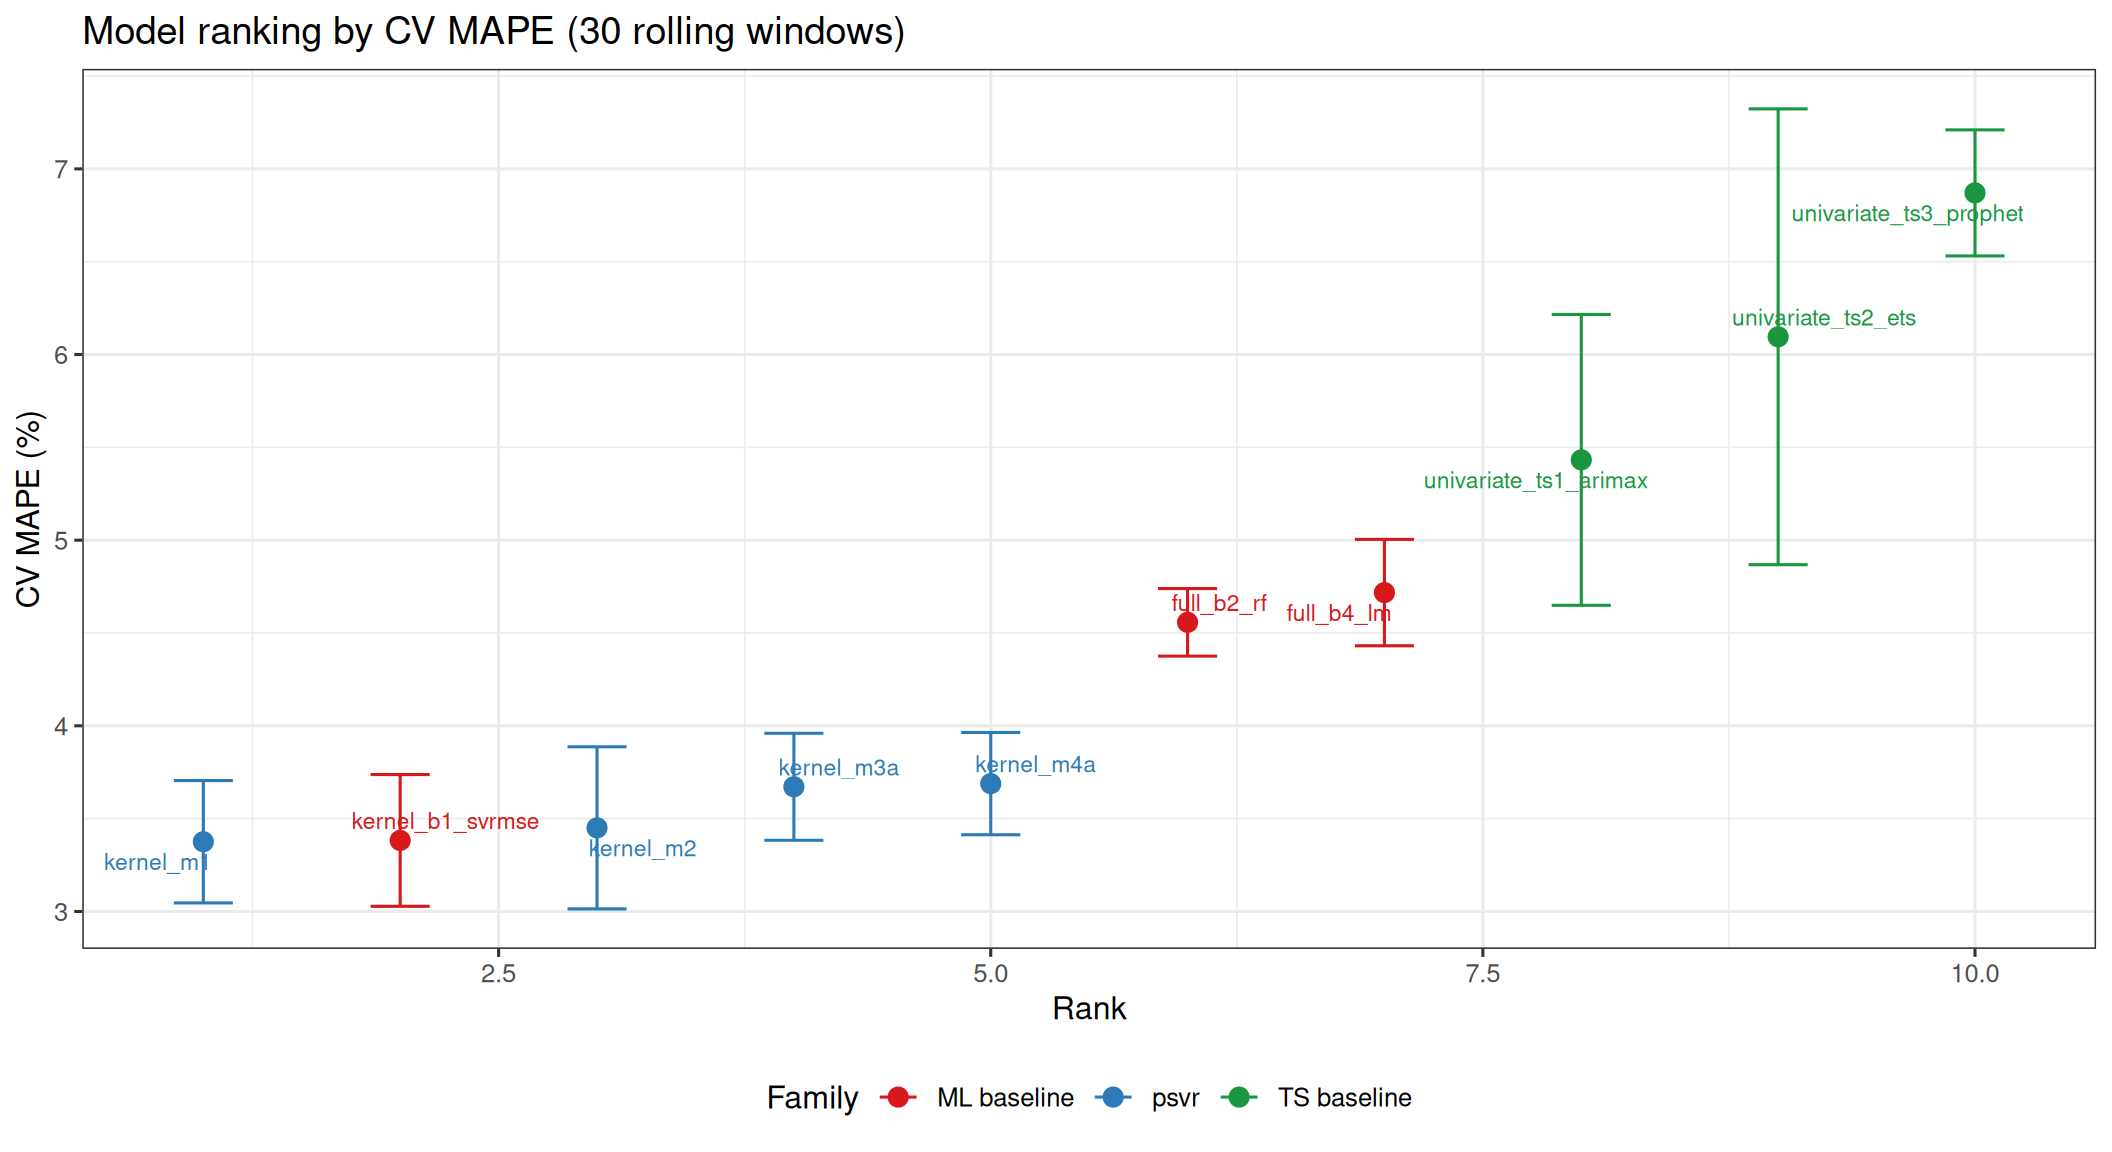
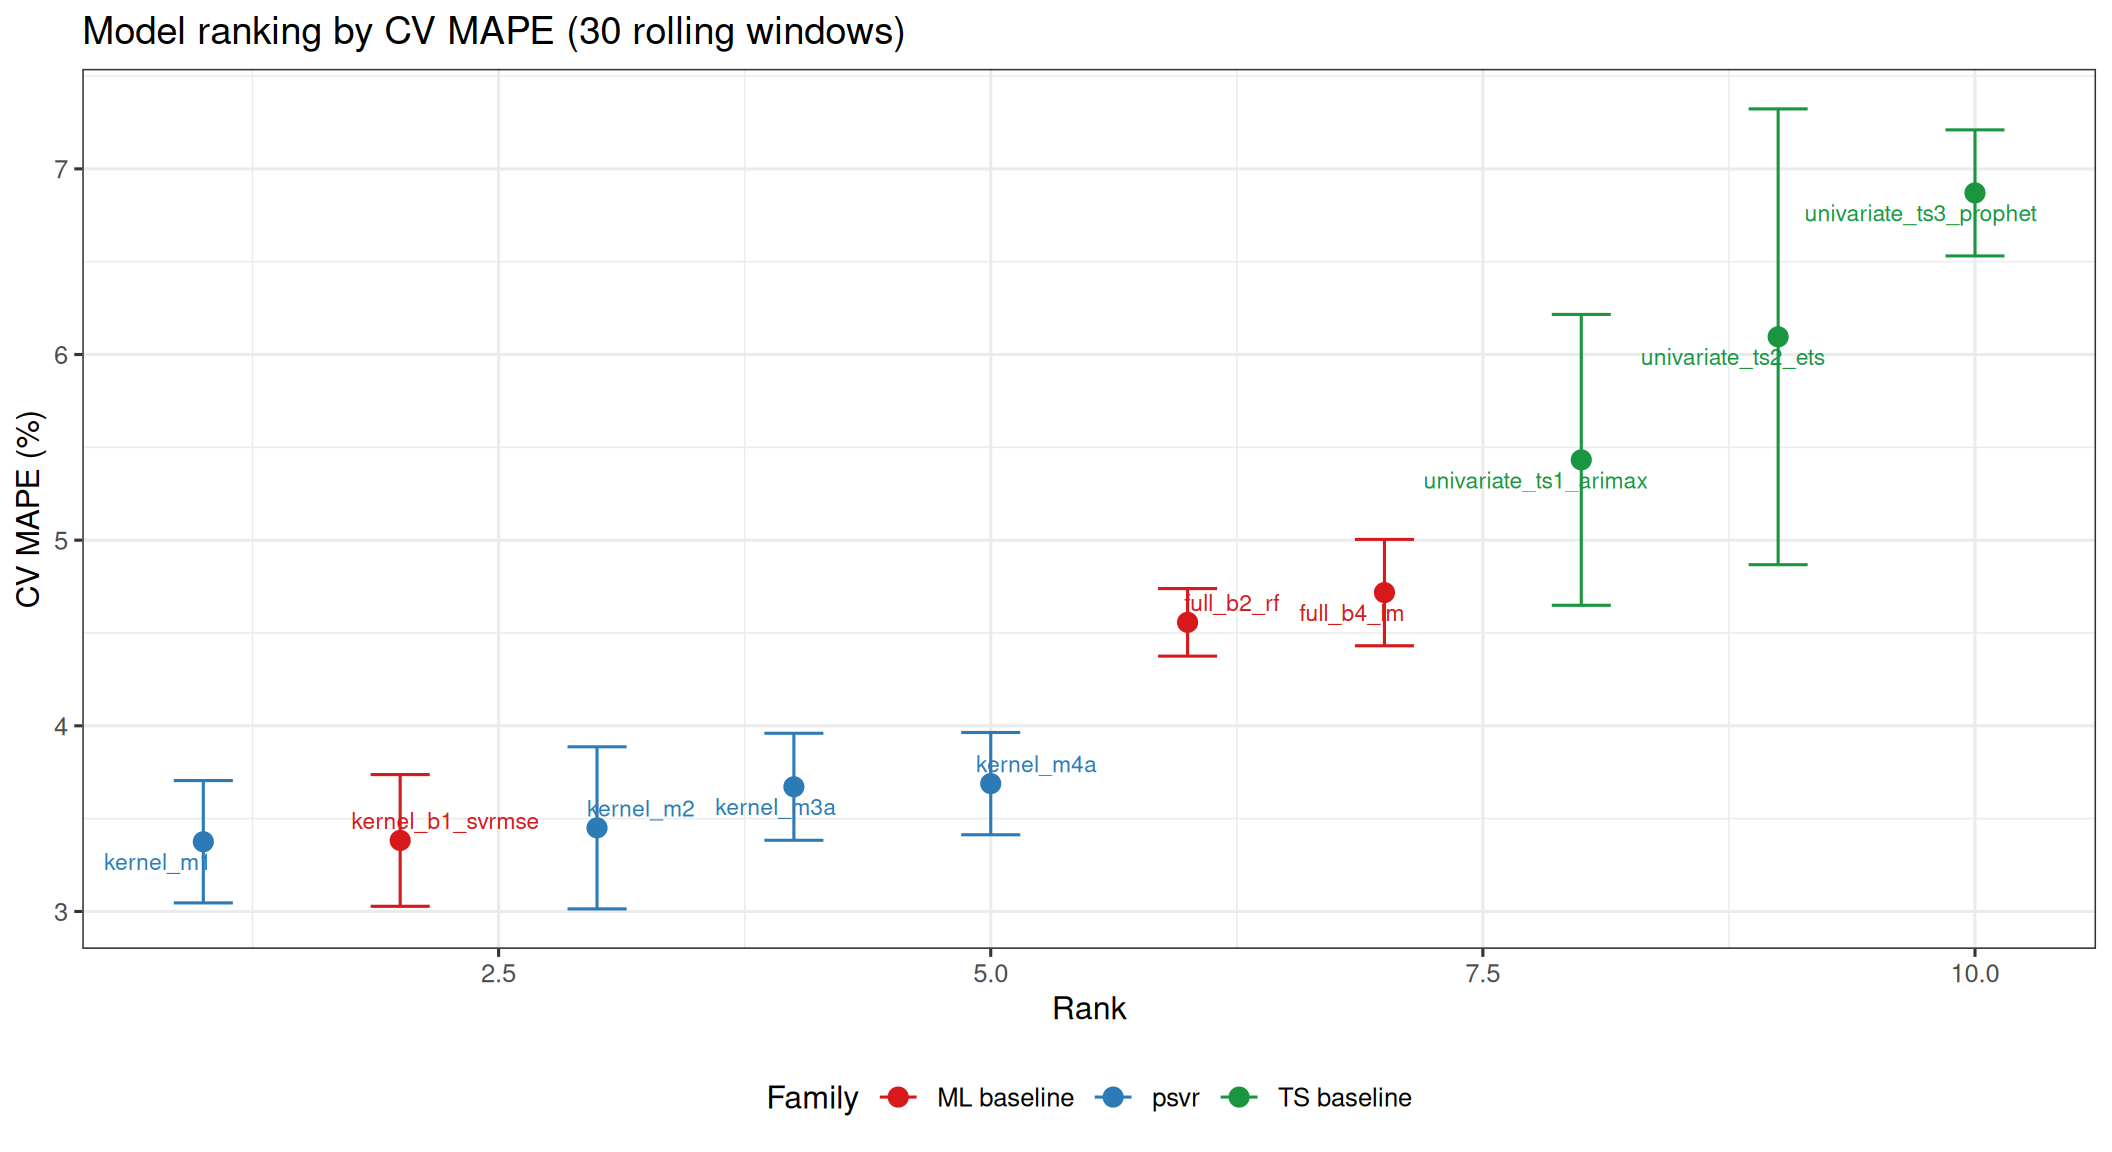
Deploying to gh-pages from @ pbenavidesh/psvr@2482dcccc77a47e876765757abccd9f39250adc8 🚀

diff --git a/articles/electricity-forecasting.html b/articles/electricity-forecasting.html
@@ -337,7 +337,7 @@
 <code class="sourceCode R"><span><span class="fu"><a href="https://rdrr.io/r/base/cat.html" class="external-link">cat</a></span><span class="op">(</span><span class="st">"Custom rbf_sigma range (log10): ["</span>,</span>
 <span>    <span class="fu"><a href="https://rdrr.io/r/base/Round.html" class="external-link">round</a></span><span class="op">(</span><span class="va">r</span><span class="op">$</span><span class="va">lower</span>, <span class="fl">4</span><span class="op">)</span>, <span class="st">","</span>, <span class="fu"><a href="https://rdrr.io/r/base/Round.html" class="external-link">round</a></span><span class="op">(</span><span class="va">r</span><span class="op">$</span><span class="va">upper</span>, <span class="fl">4</span><span class="op">)</span>, <span class="st">"]\n"</span><span class="op">)</span></span></code></pre></div>
 </details><div class="cell-output cell-output-stdout">
-<pre><code>Custom rbf_sigma range (log10): [ -0.5182 , 1.4818 ]</code></pre>
+<pre><code>Custom rbf_sigma range (log10): [ -0.5249 , 1.4751 ]</code></pre>
 </div>
 </div>
 </section><section class="level2"><h2 id="model-specifications">7 Model specifications<a class="anchor" aria-label="anchor" href="#model-specifications"></a>
@@ -776,7 +776,7 @@
 <span>    format  <span class="op">=</span> <span class="st">"html"</span>,</span>
 <span>    escape  <span class="op">=</span> <span class="cn">FALSE</span>,</span>
 <span>    caption <span class="op">=</span> <span class="fu"><a href="https://rdrr.io/r/base/paste.html" class="external-link">paste</a></span><span class="op">(</span></span>
-<span>      <span class="st">"Mean CV MAPE over 30 rolling-origin windows."</span>,</span>
+<span>      <span class="st">"Mean CV MAPE over 10 rolling-origin windows."</span>,</span>
 <span>      <span class="st">"Values shown as mean ± standard error."</span>,</span>
 <span>      <span class="st">"psvr models highlighted in blue."</span></span>
 <span>    <span class="op">)</span></span>
@@ -791,7 +791,7 @@
 <span>  <span class="op">)</span></span></code></pre></div>
 </details><div class="cell-output-display">
 <table class="table table table-striped table-hover caption-top" style="width: auto !important; margin-left: auto; margin-right: auto;">
-<caption>Mean CV MAPE over 30 rolling-origin windows. Values shown as mean ± standard error. psvr models highlighted in blue.</caption>
+<caption>Mean CV MAPE over 10 rolling-origin windows. Values shown as mean ± standard error. psvr models highlighted in blue.</caption>
 <thead><tr class="header">
 <th style="text-align: left;" data-quarto-table-cell-role="th">Model</th>
 <th style="text-align: left;" data-quarto-table-cell-role="th">Family</th>
@@ -951,7 +951,13 @@
 <span>  <span class="fu">knitr</span><span class="fu">::</span><span class="fu"><a href="https://rdrr.io/pkg/knitr/man/kable.html" class="external-link">kable</a></span><span class="op">(</span></span>
 <span>    format  <span class="op">=</span> <span class="st">"html"</span>,</span>
 <span>    escape  <span class="op">=</span> <span class="cn">FALSE</span>,</span>
-<span>    caption <span class="op">=</span> <span class="st">"Test-set accuracy on held-out 2014 data, sorted by MAPE."</span></span>
+<span>    caption <span class="op">=</span> <span class="fu"><a href="https://rdrr.io/r/base/paste.html" class="external-link">paste</a></span><span class="op">(</span></span>
+<span>      <span class="st">"Test-set accuracy on held-out 2014 data, sorted by MAPE."</span>,</span>
+<span>      <span class="st">"LS-RMSPE (MAPE opt.) and LS-RMSPE (RMSPE opt.) share the"</span>,</span>
+<span>      <span class="st">"same model structure — identical values reflect that both"</span>,</span>
+<span>      <span class="st">"CV criteria selected the same hyperparameters on this dataset."</span>,</span>
+<span>      <span class="st">"Same applies to LS-RMSPE + Sym. Kernel variants."</span></span>
+<span>    <span class="op">)</span></span>
 <span>  <span class="op">)</span> <span class="op">|&gt;</span></span>
 <span>  <span class="fu">kableExtra</span><span class="fu">::</span><span class="fu"><a href="https://rdrr.io/pkg/kableExtra/man/kable_styling.html" class="external-link">kable_styling</a></span><span class="op">(</span></span>
 <span>    bootstrap_options <span class="op">=</span> <span class="fu"><a href="https://rdrr.io/r/base/c.html" class="external-link">c</a></span><span class="op">(</span><span class="st">"striped"</span>, <span class="st">"hover"</span><span class="op">)</span>,</span>
@@ -963,7 +969,7 @@
 <span>  <span class="op">)</span></span></code></pre></div>
 </details><div class="cell-output-display">
 <table class="table table table-striped table-hover caption-top" style="width: auto !important; margin-left: auto; margin-right: auto;">
-<caption>Test-set accuracy on held-out 2014 data, sorted by MAPE.</caption>
+<caption>Test-set accuracy on held-out 2014 data, sorted by MAPE. LS-RMSPE (MAPE opt.) and LS-RMSPE (RMSPE opt.) share the same model structure — identical values reflect that both CV criteria selected the same hyperparameters on this dataset. Same applies to LS-RMSPE + Sym. Kernel variants.</caption>
 <thead><tr class="header">
 <th style="text-align: left;" data-quarto-table-cell-role="th">Model</th>
 <th style="text-align: left;" data-quarto-table-cell-role="th">Family</th>
@@ -1031,9 +1037,9 @@
 <tr class="odd">
 <td style="text-align: left;">Random Forest</td>
 <td style="text-align: left;">ML baseline</td>
-<td style="text-align: right;">4.0175</td>
-<td style="text-align: right;">0.0598</td>
-<td style="text-align: right;">0.7976</td>
+<td style="text-align: right;">4.0320</td>
+<td style="text-align: right;">0.0593</td>
+<td style="text-align: right;">0.8004</td>
 </tr>
 <tr class="even">
 <td style="text-align: left;">Prophet + regressors</td>
@@ -1150,7 +1156,7 @@
 </tr>
 <tr class="odd">
 <td style="text-align: left;">Random Forest</td>
-<td style="text-align: right;">0.6375</td>
+<td style="text-align: right;">0.6389</td>
 </tr>
 <tr class="even">
 <td style="text-align: left;">Prophet + regressors</td>

diff --git a/articles/electricity-forecasting.md b/articles/electricity-forecasting.md
@@ -328,7 +328,7 @@ cat("Custom rbf_sigma range (log10): [",
     round(r$lower, 4), ",", round(r$upper, 4), "]\n")
 ```
 
-    Custom rbf_sigma range (log10): [ -0.5182 , 1.4818 ]
+    Custom rbf_sigma range (log10): [ -0.5249 , 1.4751 ]
 
 ## 7 Model specifications
 
@@ -795,7 +795,7 @@ cv_summary |>
     format  = "html",
     escape  = FALSE,
     caption = paste(
-      "Mean CV MAPE over 30 rolling-origin windows.",
+      "Mean CV MAPE over 10 rolling-origin windows.",
       "Values shown as mean ± standard error.",
       "psvr models highlighted in blue."
     )
@@ -823,7 +823,7 @@ cv_summary |>
 | ETS                                | TS baseline | 6.095 ± 0.626 |
 | Prophet + regressors               | TS baseline | 6.871 ± 0.173 |
 
-Mean CV MAPE over 30 rolling-origin windows. Values shown as mean ±
+Mean CV MAPE over 10 rolling-origin windows. Values shown as mean ±
 standard error. psvr models highlighted in blue.
 
 ### 10.3 Final fit and test-set forecast
@@ -927,7 +927,13 @@ test_metrics |>
   knitr::kable(
     format  = "html",
     escape  = FALSE,
-    caption = "Test-set accuracy on held-out 2014 data, sorted by MAPE."
+    caption = paste(
+      "Test-set accuracy on held-out 2014 data, sorted by MAPE.",
+      "LS-RMSPE (MAPE opt.) and LS-RMSPE (RMSPE opt.) share the",
+      "same model structure — identical values reflect that both",
+      "CV criteria selected the same hyperparameters on this dataset.",
+      "Same applies to LS-RMSPE + Sym. Kernel variants."
+    )
   ) |>
   kableExtra::kable_styling(
     bootstrap_options = c("striped", "hover"),
@@ -949,12 +955,16 @@ test_metrics |>
 | LS-RMSPE + Sym. Kernel (MAPE opt.)  | psvr        |   3.2792 | 0.0439 | 0.8728 |
 | LS-RMSPE + Sym. Kernel (RMSPE opt.) | psvr        |   3.2792 | 0.0439 | 0.8728 |
 | Linear Regression                   | ML baseline |   3.2822 | 0.0422 | 0.8858 |
-| Random Forest                       | ML baseline |   4.0175 | 0.0598 | 0.7976 |
+| Random Forest                       | ML baseline |   4.0320 | 0.0593 | 0.8004 |
 | Prophet + regressors                | TS baseline |   5.6621 | 0.0873 | 0.5025 |
 | ARIMAX                              | TS baseline |  10.3658 | 0.1377 | 0.3267 |
 | ETS                                 | TS baseline |  18.3294 | 0.2108 | 0.3138 |
 
-Test-set accuracy on held-out 2014 data, sorted by MAPE.
+Test-set accuracy on held-out 2014 data, sorted by MAPE. LS-RMSPE (MAPE
+opt.) and LS-RMSPE (RMSPE opt.) share the same model structure —
+identical values reflect that both CV criteria selected the same
+hyperparameters on this dataset. Same applies to LS-RMSPE + Sym. Kernel
+variants.
 
 ### 10.5 MASE with lag-7 denominator
 
@@ -1017,7 +1027,7 @@ mase_results |>
 | LS-RMSPE + Sym. Kernel (MAPE opt.)  |       0.5109 |
 | LS-RMSPE + Sym. Kernel (RMSPE opt.) |       0.5109 |
 | Linear Regression                   |       0.5130 |
-| Random Forest                       |       0.6375 |
+| Random Forest                       |       0.6389 |
 | Prophet + regressors                |       0.9190 |
 | ARIMAX                              |       1.7158 |
 | ETS                                 |       2.9869 |